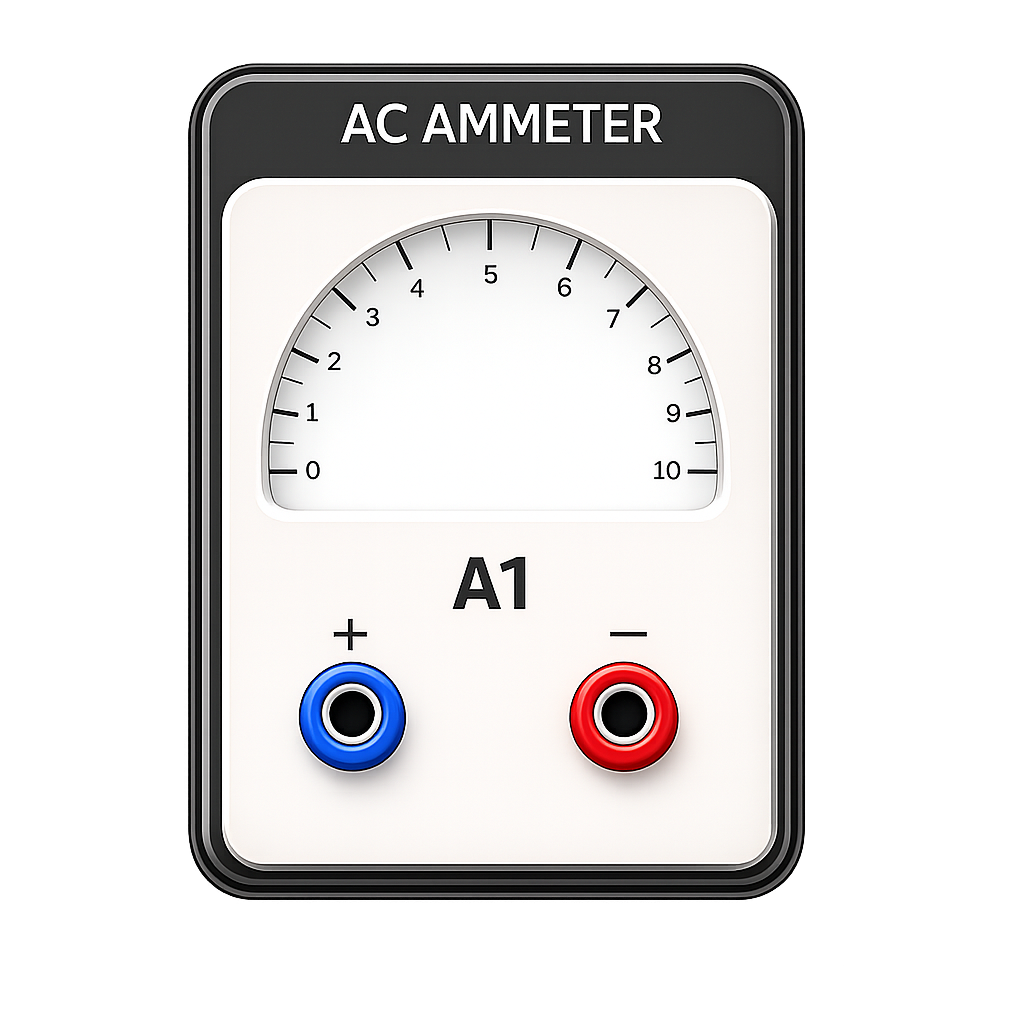
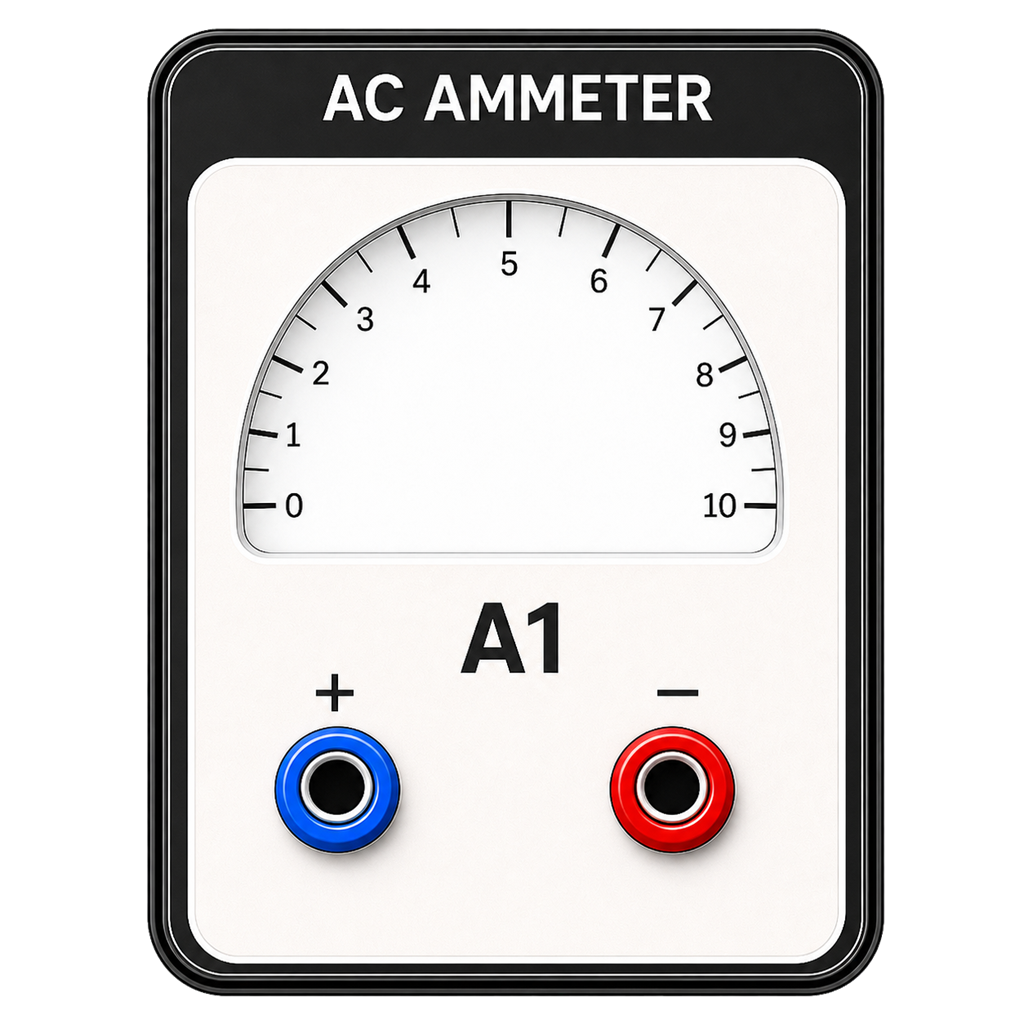
images improved

diff --git a/src/App.css b/src/App.css
@@ -16,15 +16,26 @@
 }
 
 #app-scale {
+  --app-scale: 1;
   position: absolute;
   top: 0;
   left: 0;
   width: 1440px;
   height: 1418px;
+  transform: scale(var(--app-scale));
   transform-origin: top left;
   backface-visibility: hidden;
   contain: layout paint style;
   will-change: transform;
+}
+
+@supports (zoom: 1) {
+  #app-scale {
+    zoom: var(--app-scale);
+    transform: none;
+    backface-visibility: visible;
+    will-change: auto;
+  }
 }
 
 .simulation-shell {
@@ -540,25 +551,27 @@
   border-collapse: collapse;
   table-layout: fixed;
   color: #3d2416;
-  font-size: 11px;
+  font-size: 12px;
+  text-rendering: geometricPrecision;
 }
 
 .observation-table th {
-  height: 27px;
+  height: 29px;
   padding: 0 3px;
   color: #fff;
   background: linear-gradient(180deg, #7b461f, #4a2a15);
-  font-size: 10px;
+  font-size: 11px;
   font-weight: 900;
-  line-height: 1.05;
+  line-height: 1.1;
   text-align: center;
   white-space: nowrap;
 }
 
 .observation-table td {
-  height: 23px;
+  height: 25px;
   padding: 0 3px;
   color: #2d1b11;
+  font-size: 12px;
   font-weight: 700;
   text-align: center;
   background: rgba(255, 250, 243, 0.62);
@@ -583,7 +596,7 @@
 }
 
 .observation-table__group {
-  font-size: 11px;
+  font-size: 12px;
   letter-spacing: 0;
 }
 
@@ -1554,21 +1567,39 @@ input:focus-visible {
 }
 
 #A2 {
+  --under-meter-scale: 1.37;
   top: 460px;
   left: 215px;
   width: 155px;
   height: 155px;
-  transform: scale(1.37);
+  transform: scale(var(--under-meter-scale));
   transform-origin: top left;
 }
 
 #V2 {
+  --under-meter-scale: 1.35;
   top: 460px;
   left: -20px;
   width: 155px;
   height: 155px;
-  transform: scale(1.35);
+  transform: scale(var(--under-meter-scale));
   transform-origin: top left;
+}
+
+@supports (zoom: 1) {
+  #A2 {
+    zoom: var(--under-meter-scale);
+    top: 336px;
+    left: 157px;
+    transform: none;
+  }
+
+  #V2 {
+    zoom: var(--under-meter-scale);
+    top: 341px;
+    left: -15px;
+    transform: none;
+  }
 }
 
 .lab-meter {
@@ -1684,6 +1715,16 @@ input:focus-visible {
   box-shadow: none;
 }
 
+.lab-meter--voltmeter {
+  transform: scale(1.02);
+  transform-origin: top center;
+}
+
+.lab-meter--ammeter {
+  transform: translateY(8px) scale(.9);
+  transform-origin: top center;
+}
+
 .lab-meter--image .lab-meter__image,
 .lab-meter--wattmeter .lab-meter__image {
   position: absolute;
@@ -1696,8 +1737,12 @@ input:focus-visible {
 }
 
 .lab-meter--ammeter .lab-meter__image {
-  transform: scale(1.12);
+  transform: scale(1.1);
   transform-origin: center center;
+}
+
+.lab-meter--voltmeter .lab-meter__image {
+  image-rendering: -webkit-optimize-contrast;
 }
 
 .meter-needle {
@@ -1727,26 +1772,26 @@ input:focus-visible {
 }
 
 .meter-needle--voltmeter {
-  --meter-needle-top: 114px;
-  --meter-needle-left: 79px;
-  --meter-needle-size: 92px;
+  --meter-needle-top: 111px;
+  --meter-needle-left: 77px;
+  --meter-needle-size: 88px;
 }
 
 .meter-needle--ammeter {
-  --meter-needle-top: 99px;
-  --meter-needle-left: 75px;
-  --meter-needle-size: 70px;
+  --meter-needle-top: 102px;
+  --meter-needle-left: 79px;
+  --meter-needle-size: 79px;
 }
 
 .meter-needle--wattmeter {
   --meter-needle-top: 111px;
   --meter-needle-left: 79px;
-  --meter-needle-size: 85px;
+  --meter-needle-size: 84px;
 }
 
 .meter-needle--under-voltmeter {
   --meter-needle-top: 85px;
-  --meter-needle-left: 78px;
+  --meter-needle-left: 76px;
   --meter-needle-size: 70px;
 }
 

diff --git a/src/App.jsx b/src/App.jsx
@@ -21,12 +21,12 @@ import {
   createTransformerObservation,
 } from './utils/lampLoadReadings.js'
  
-const BASE_WIDTH = 1435
+const BASE_WIDTH = 1440
 const BASE_HEIGHT = 960
 const GRAPH_SECTION_GAP = 28
 const GRAPH_SECTION_HEIGHT = 430
 const CONTENT_HEIGHT = BASE_HEIGHT + GRAPH_SECTION_GAP + GRAPH_SECTION_HEIGHT
-const PANEL_MAX_SCALE = 0.95
+const PANEL_MAX_SCALE = 1
 const PANEL_VIEWPORT_MARGIN = 32
 const MAX_OBSERVATIONS = MAX_LAMP_LOAD_LEVEL + 1
 const MIN_GRAPH_READINGS = MAX_OBSERVATIONS
@@ -261,25 +261,6 @@ const App = () => {
   }
 
   const handlePrint = () => {
-    if (!canPlotGraph) {
-      showStepAlert(EXPERIMENT_ALERTS.minimumReadingsRequired, {
-        description: `Collect at least ${MIN_GRAPH_READINGS} readings before preparing the print layout.`,
-      })
-      return
-    }
-
-    if (!graphGenerated) {
-      setStatus('Please generate the graph first.')
-      showStepAlert(EXPERIMENT_ALERTS.insufficientGraphReadings, {
-        description: 'Please generate the graph first.',
-        target: '#plot-button',
-        title: 'Generate Graph First',
-        type: 'warning',
-      })
-      window.alert('Please generate the graph first.')
-      return
-    }
-
     window.print()
   }
 
@@ -502,8 +483,8 @@ const App = () => {
         <div
           id="app-scale"
           style={{
+            '--app-scale': scale,
             height: `${CONTENT_HEIGHT}px`,
-            transform: `scale(${scale})`,
           }}
         >
           <main className="simulation-shell" id="walkthrough-demo-experiment">

diff --git a/src/ConnectionEndpoints.css b/src/ConnectionEndpoints.css
@@ -532,13 +532,13 @@
 }
 
 .endpoint-5 {
-  --terminal-base-top: 138px;
-  --terminal-base-left: 34px;
+  --terminal-base-top: 154px;
+  --terminal-base-left: 31px;
 }
 
 #label-5 {
-  top: 170px;
-  left: 45px;
+  top: 186px;
+  left: 41px;
 }
 
 .endpoint-6 {
@@ -547,13 +547,13 @@
 }
 
 .endpoint-6 {
-  --terminal-base-top: 138px;
-  --terminal-base-left: 94px;
+  --terminal-base-top: 154px;
+  --terminal-base-left: 105px;
 }
 
 #label-6 {
-  top: 170px;
-  left: 104px;
+  top: 186px;
+  left: 115px;
 }
 
 .endpoint-7 {

diff --git a/src/components/ObservationTable.jsx b/src/components/ObservationTable.jsx
@@ -27,7 +27,7 @@ const ObservationTable = ({ observations }) => (
           <tr>
             <th className="observation-table__serial" rowSpan="2">S.No</th>
             <th className="observation-table__group" colSpan="3">Primary Side Readings</th>
-            <th className="observation-table__group" colSpan="3">Secondary Side Readings</th>
+            <th className="observation-table__group" colSpan="3">Secondary Side Reading</th>
             <th className="observation-table__group" colSpan="2">Results</th>
           </tr>
           <tr>

diff --git a/src/utils/reportGenerator.js b/src/utils/reportGenerator.js
@@ -891,7 +891,7 @@ tr:nth-child(even) {
         <p class="report-stamp">Generated on ${escapeHtml(reportDateText)}</p>
       </div>
       <p class="report-experiment-label">Experiment Title</p>
-      <p class="report-experiment-title">To Verify Kirchhoff's Current Law</p>
+      <p class="report-experiment-title">To Study the efficiency of single phase transformer by load test</p>
       <div class="info-grid">
         <div class="info-card"><span class="label">Start Time:</span>${escapeHtml(startTimeText)}</div>
         <div class="info-card"><span class="label">End Time:</span>${escapeHtml(endTimeText)}</div>